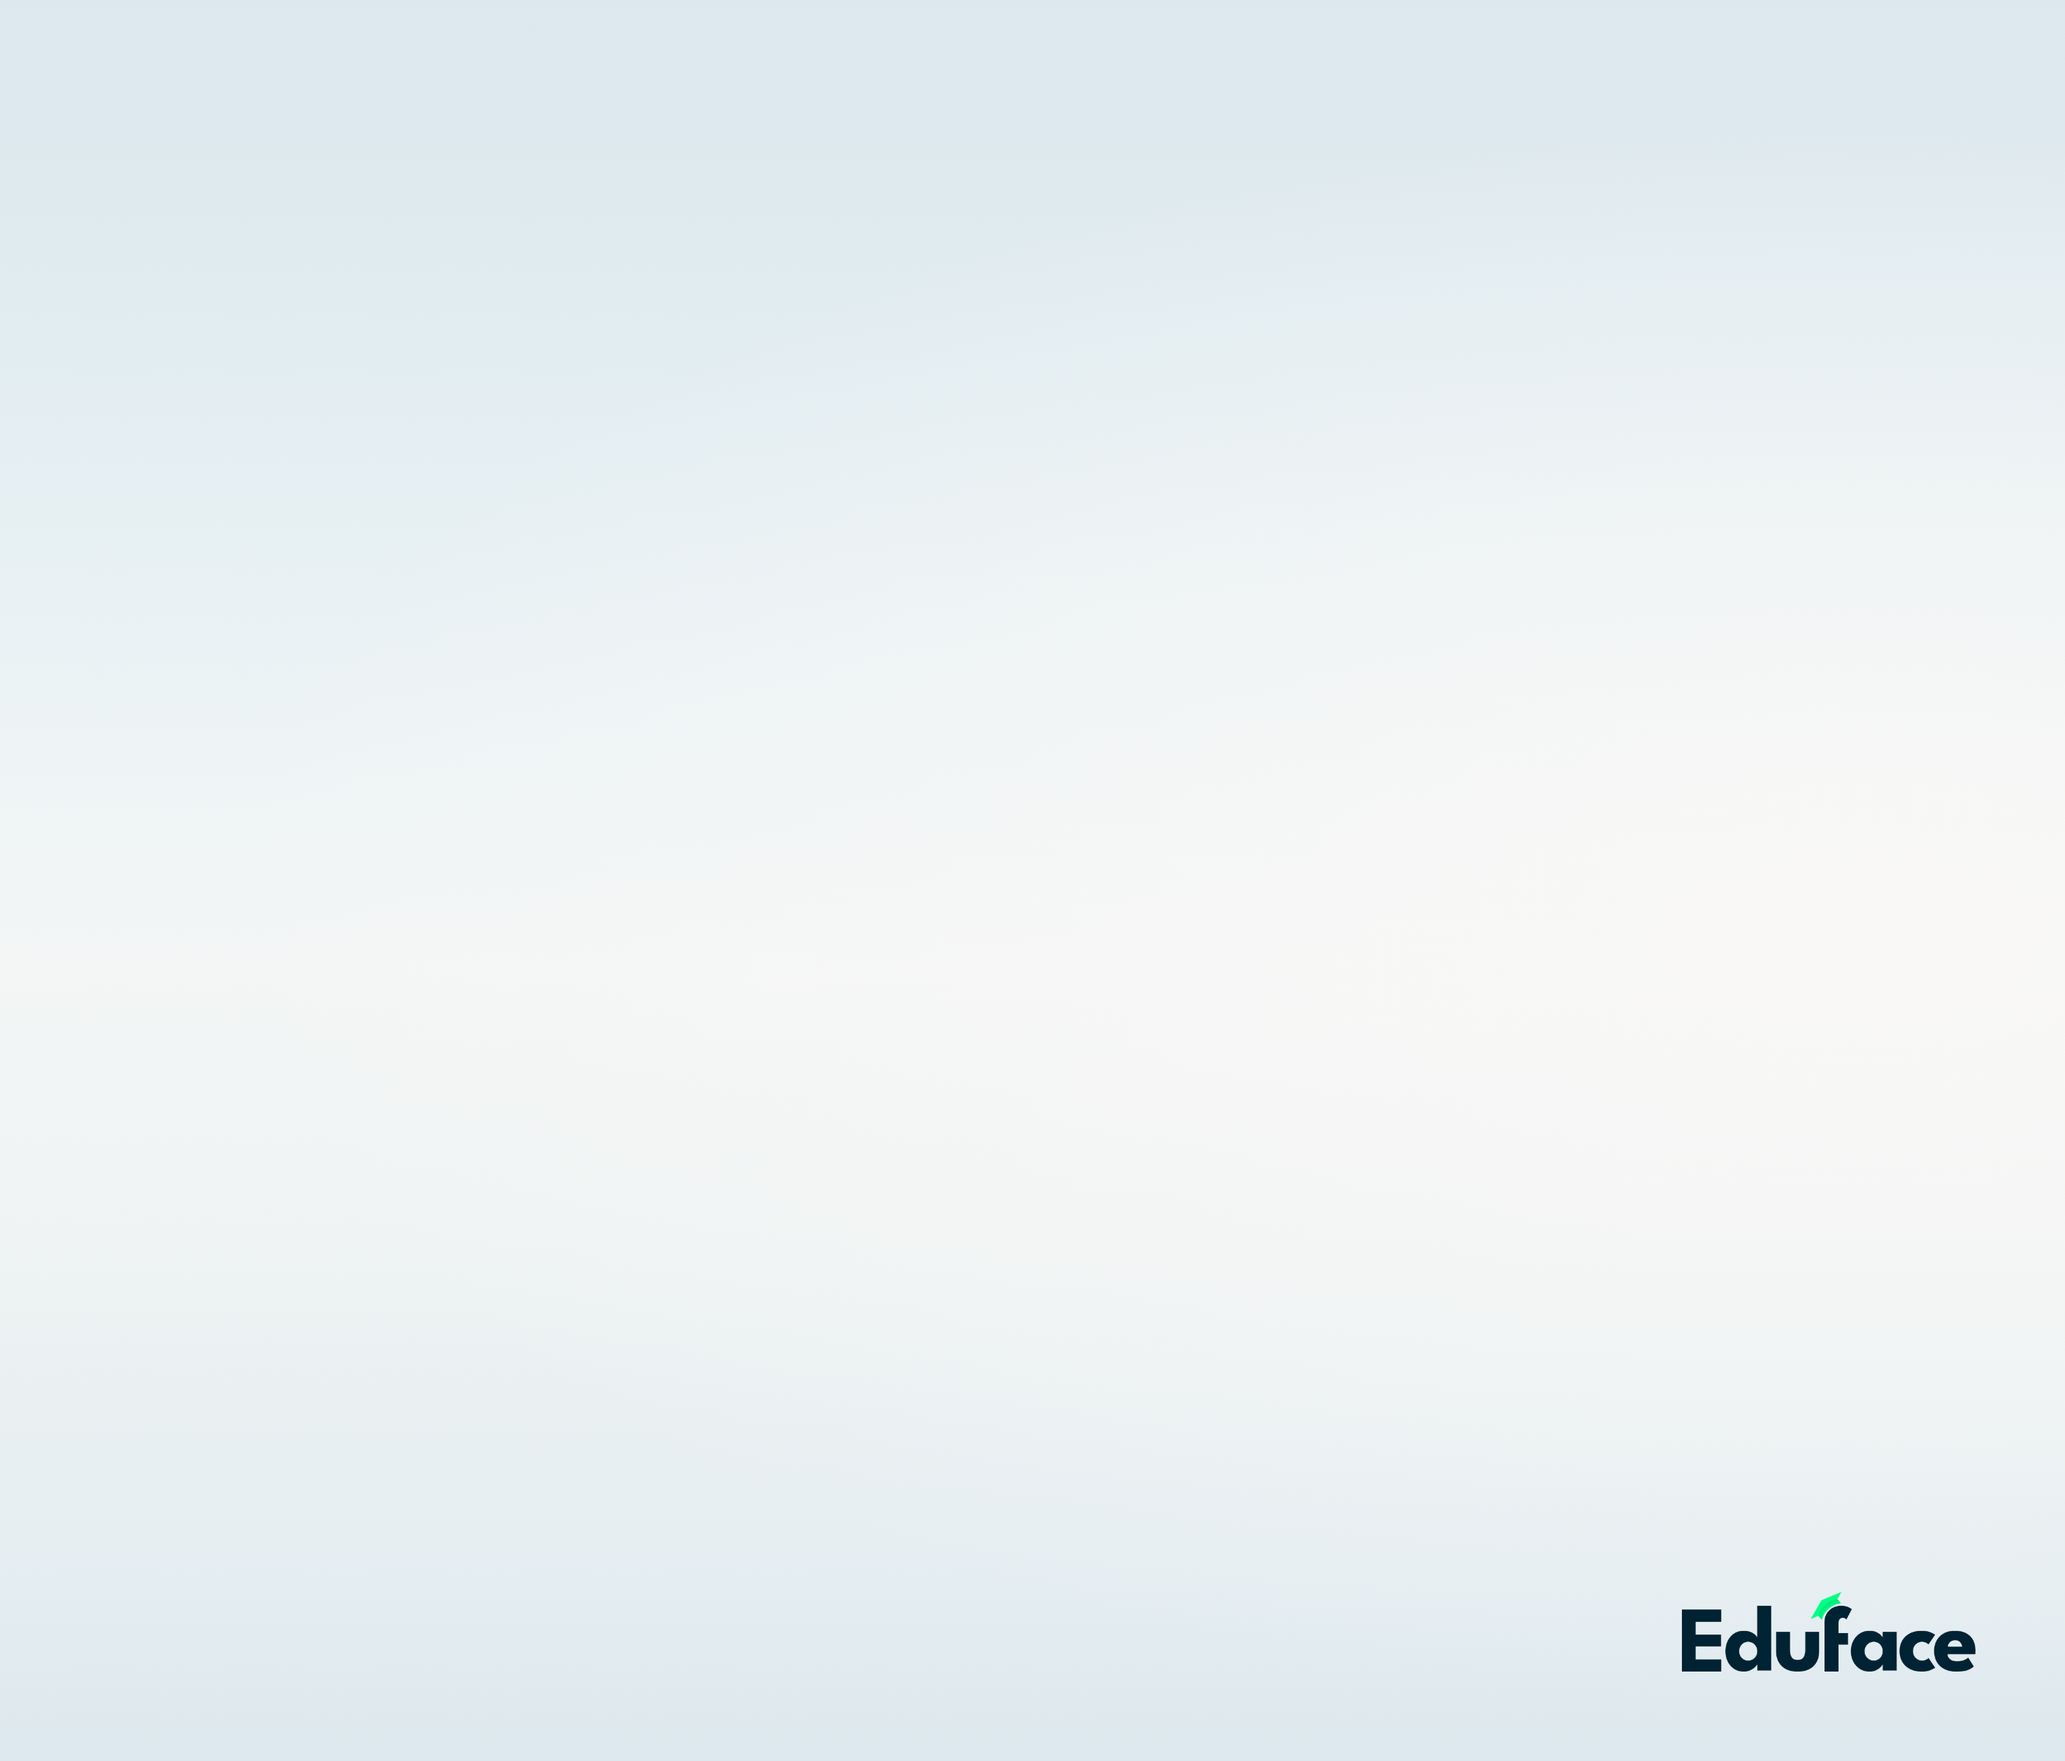
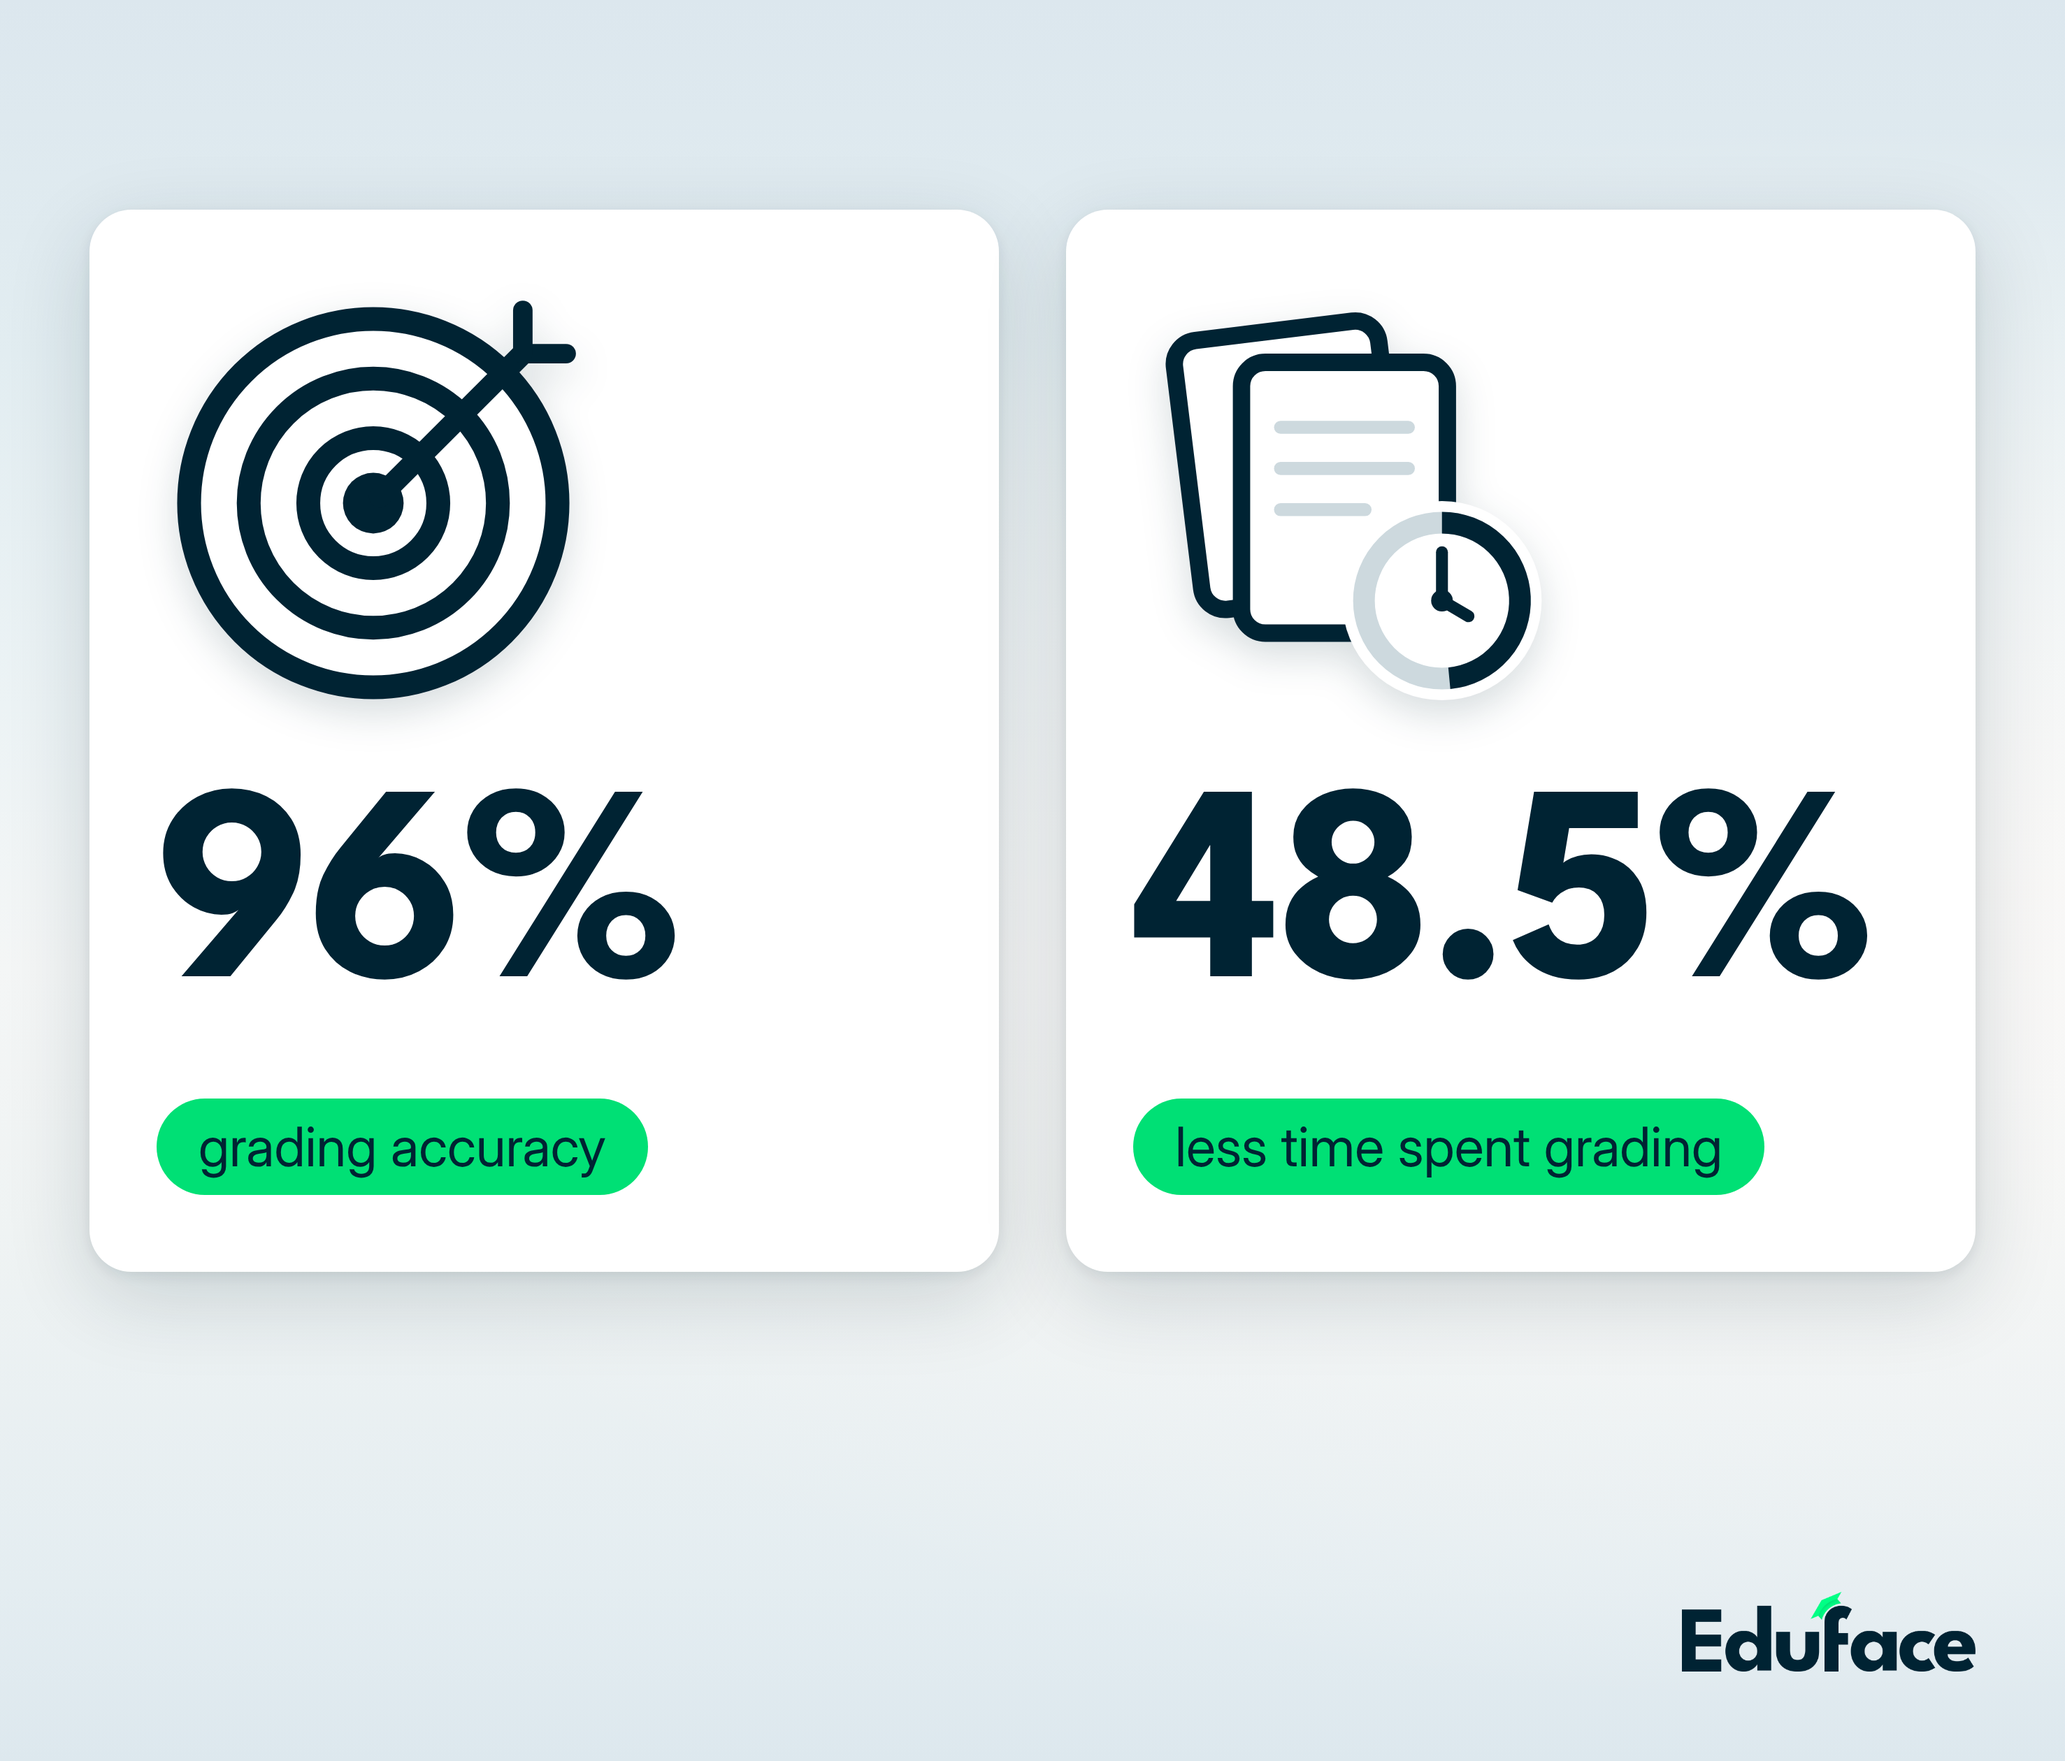
Backwall: twee kaarten met iconen, groene labels en schaduw
Claude-Session: https://claude.ai/code/session_011t24oRcD5DFuXzKigdVhtb

diff --git a/creatives/beurs-backwall/backwall.html b/creatives/beurs-backwall/backwall.html
@@ -28,6 +28,20 @@
   /* laag 2: cijfers en objecten */
   .num { font-family: "League Spartan", sans-serif; font-weight: 700; line-height: .78; letter-spacing: -.02em; white-space: nowrap; }
   .lbl { font-family: "Inter", sans-serif; font-weight: 400; color: var(--ink-700); line-height: 1.1; white-space: nowrap; }
+
+  /* laag 2: twee kaarten. Radius = radius-2xl (20) x3, schaduw = schaduw-lg x3, navy-getint. */
+  .card {
+    position: absolute; top: 300px; width: 1301px; height: 1520px;
+    background: #ffffff; border-radius: 60px; padding: 110px 96px;
+    display: flex; flex-direction: column; align-items: flex-start; justify-content: space-between;
+    box-shadow: 0 6px 18px rgba(0,35,51,.08), 0 36px 120px rgba(0,35,51,.16);
+  }
+  .card .icon { filter: drop-shadow(0 20px 28px rgba(0,35,51,.16)); }
+  .pill {
+    display: inline-block; background: #00e075; color: #002333;
+    font: 400 78px/1 "Inter", sans-serif; padding: 30px 60px; border-radius: 9999px;
+  }
+  .card .num { font-size: 400px; }
 </style>
 </head>
 <body>
@@ -37,80 +51,46 @@
   </div>
 
 <script>
-const NAVY = '#002333', GREEN = '#00e075', INK700 = '#2c4a57';
+const NAVY = '#002333', INK2 = '#cdd9de';
+const polar=(cx,cy,r,deg)=>{const a=(deg-90)*Math.PI/180;return [cx+r*Math.cos(a),cy+r*Math.sin(a)];};
+const svg=(inner,size=620)=>`<svg class="icon" width="${size}" height="${size}" viewBox="0 0 400 400">${inner}</svg>`;
 
-/* ---- Klok: 'saved' deel is weggesneden, de rest is vol ------------------ */
-function clock(r, saved) {
-  const pad = 110, size = 2 * (r + pad), c = size / 2;
-  const pt = (deg, rad) => {
-    const a = (deg - 90) * Math.PI / 180;
-    return [c + rad * Math.cos(a), c + rad * Math.sin(a)];
-  };
-  const end = saved * 360;
-  const [x0, y0] = pt(0, r), [x1, y1] = pt(end, r);
-  const savedPath = `M${c},${c} L${x0},${y0} A${r},${r} 0 0 1 ${x1},${y1} Z`;
-  const restPath  = `M${c},${c} L${x1},${y1} A${r},${r} 0 1 1 ${x0},${y0} Z`;
-  let ticks = '';
-  for (let i = 0; i < 12; i++) {
-    const d = i * 30, long = i % 3 === 0;
-    const [a, b] = pt(d, r + 40), [e, f] = pt(d, r + (long ? 100 : 78));
-    ticks += `<line x1="${a}" y1="${b}" x2="${e}" y2="${f}" stroke="${NAVY}" stroke-width="${long ? 14 : 10}" stroke-linecap="round"/>`;
-  }
-  return `<svg width="${size}" height="${size}" viewBox="0 0 ${size} ${size}">
-    <path d="${restPath}" fill="${NAVY}"/>
-    <path d="${savedPath}" fill="none" stroke="${NAVY}" stroke-width="12" stroke-dasharray="32 26" stroke-linejoin="round"/>
-    <circle cx="${c}" cy="${c}" r="${r}" fill="none" stroke="${NAVY}" stroke-width="10"/>
-    <line x1="${c}" y1="${c}" x2="${x1}" y2="${y1}" stroke="${GREEN}" stroke-width="26" stroke-linecap="round"/>
-    <circle cx="${c}" cy="${c}" r="34" fill="${NAVY}"/>
-    ${ticks}
-  </svg>`;
+/* Icoon 1: roos met pijl. Geen groen in het icoon. */
+const target = svg(
+  [170,115,60].map(r=>`<circle cx="200" cy="200" r="${r}" fill="#fff" stroke="${NAVY}" stroke-width="22"/>`).join('') +
+  `<circle cx="200" cy="200" r="28" fill="${NAVY}"/>
+   <line x1="206" y1="194" x2="338" y2="62" stroke="${NAVY}" stroke-width="20" stroke-linecap="round"/>
+   <line x1="338" y1="62" x2="378" y2="62" stroke="${NAVY}" stroke-width="18" stroke-linecap="round"/>
+   <line x1="338" y1="62" x2="338" y2="22" stroke="${NAVY}" stroke-width="18" stroke-linecap="round"/>`);
+
+/* Icoon 5: papieren met klokje, ring voor 48,5% gevuld */
+function clockBase(cx,cy,r,sw,progress){
+  const [x1,y1]=polar(cx,cy,r,progress*360), [x0,y0]=polar(cx,cy,r,0);
+  return `<circle cx="${cx}" cy="${cy}" r="${r}" fill="#fff" stroke="${INK2}" stroke-width="${sw}"/>
+    <path d="M${x0},${y0} A${r},${r} 0 ${progress>.5?1:0} 1 ${x1},${y1}" fill="none" stroke="${NAVY}" stroke-width="${sw}"/>
+    <line x1="${cx}" y1="${cy}" x2="${cx}" y2="${cy-r*.62}" stroke="${NAVY}" stroke-width="${sw*.55}" stroke-linecap="round"/>
+    <line x1="${cx}" y1="${cy}" x2="${cx+r*.34}" y2="${cy+r*.2}" stroke="${NAVY}" stroke-width="${sw*.55}" stroke-linecap="round"/>
+    <circle cx="${cx}" cy="${cy}" r="${sw*.5}" fill="${NAVY}"/>`;
 }
+const papers = svg(`
+  <rect x="50" y="40" width="190" height="250" rx="22" fill="#fff" stroke="${NAVY}" stroke-width="16" transform="rotate(-7 145 165)"/>
+  <rect x="100" y="70" width="190" height="250" rx="22" fill="#fff" stroke="${NAVY}" stroke-width="16"/>
+  <line x1="136" y1="130" x2="254" y2="130" stroke="${INK2}" stroke-width="12" stroke-linecap="round"/>
+  <line x1="136" y1="168" x2="254" y2="168" stroke="${INK2}" stroke-width="12" stroke-linecap="round"/>
+  <line x1="136" y1="206" x2="214" y2="206" stroke="${INK2}" stroke-width="12" stroke-linecap="round"/>
+  <circle cx="285" cy="290" r="92" fill="#fff"/>
+  ${clockBase(285,290,72,20,.485)}`);
 
-/* ---- Buisje: capsule, 96% gevuld, schaal rechts ------------------------- */
-function tube(w, h, fill, labels = true) {
-  const s = 20, gap = 20, i = s + gap;
-  const innerW = w - 2 * i, innerH = h - 2 * i;
-  const extra = labels ? 190 : 0;
-  const fillH = innerH * fill, top = i + innerH - fillH;
-  let marks = '';
-  if (labels) {
-    for (let p = 0; p <= 10; p++) {
-      const y = i + innerH * (1 - p / 10), major = p % 5 === 0;
-      marks += `<line x1="${w + 18}" y1="${y}" x2="${w + 18 + (major ? 64 : 36)}" y2="${y}" stroke="${NAVY}" stroke-width="${major ? 10 : 7}" stroke-linecap="round"/>`;
-      if (major) marks += `<text x="${w + 18 + 64 + 18}" y="${y + 19}" font-family="Inter" font-size="54" fill="${INK700}">${p * 10}</text>`;
-    }
-  }
-  return `<svg width="${w + extra}" height="${h}" viewBox="0 0 ${w + extra} ${h}">
-    <defs><clipPath id="cap${w}"><rect x="${i}" y="${i}" width="${innerW}" height="${innerH}" rx="${innerW / 2}"/></clipPath></defs>
-    <rect x="${s / 2}" y="${s / 2}" width="${w - s}" height="${h - s}" rx="${(w - s) / 2}" fill="rgba(255,255,255,.55)" stroke="${NAVY}" stroke-width="${s}"/>
-    <g clip-path="url(#cap${w})">
-      <rect x="${i}" y="${top}" width="${innerW}" height="${fillH}" fill="${NAVY}"/>
-      <rect x="${i}" y="${top}" width="${innerW}" height="22" fill="${GREEN}"/>
-    </g>
-    ${marks}
-  </svg>`;
-}
+const card = (left, icon, num, label) => `
+  <div class="card" style="left:${left}px">
+    ${icon}
+    <div class="num">${num}</div>
+    <div class="pill">${label}</div>
+  </div>`;
 
-const put = (html, style) => `<div class="abs" style="${style}">${html}</div>`;
-const layout = new URLSearchParams(location.search).get('v');
-let out = '';
-
-if (layout === '1') {
-  /* Indeling 1: gelijk gewicht. Buisje links, klok rechts, cijfers op een lijn. */
-  out += put(tube(300, 1450, .96), 'left:160px; top:250px;');
-  out += put('<div class="num" style="font-size:400px">96%</div><div class="lbl" style="font-size:92px; margin-top:56px">grading accuracy</div>', 'left:740px; top:1390px;');
-  out += put(clock(420, .485), 'left:1720px; top:250px;');
-  out += put('<div class="num" style="font-size:400px">48.5%</div><div class="lbl" style="font-size:92px; margin-top:56px">less time spent grading</div>', 'left:1780px; top:1390px;');
-}
-
-if (layout === '2') {
-  /* Indeling 2: een held. Reusachtige klok bloedt rechts af, buisje smal links. */
-  out += put(clock(820, .485), 'left:1590px; top:230px;');
-  out += put(tube(200, 1260, .96, false), 'left:160px; top:240px;');
-  out += put('<div class="num" style="font-size:440px">48.5%</div><div class="lbl" style="font-size:104px; margin-top:64px">less time spent grading</div>', 'left:520px; top:260px;');
-  out += put('<div class="num" style="font-size:230px">96%</div><div class="lbl" style="font-size:72px; margin-top:40px">grading accuracy</div>', 'left:520px; top:1140px;');
-}
-document.getElementById('layer-content').innerHTML = out;
+document.getElementById('layer-content').innerHTML =
+  card(128,  target, '96%',   'grading accuracy') +
+  card(1525, papers, '48.5%', 'less time spent grading');
 </script>
 </body>
 </html>
